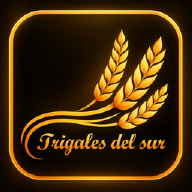
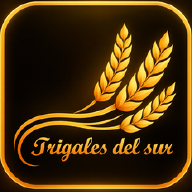
El icono se recorta hasta su marco dorado: se va el negro que asomaba.

diff --git a/index.html b/index.html
@@ -4,7 +4,7 @@
 <meta charset="utf-8">
 <meta name="viewport" content="width=device-width, initial-scale=1, viewport-fit=cover">
 <meta name="theme-color" content="#8B4A2B">
-<meta name="tds-pagina" content="50">
+<meta name="tds-pagina" content="51">
 <meta name="description" content="Armá tu pedido y mandalo por WhatsApp.">
 <link rel="manifest" href="manifest.json">
 <link rel="icon" href="icono-192.png">
